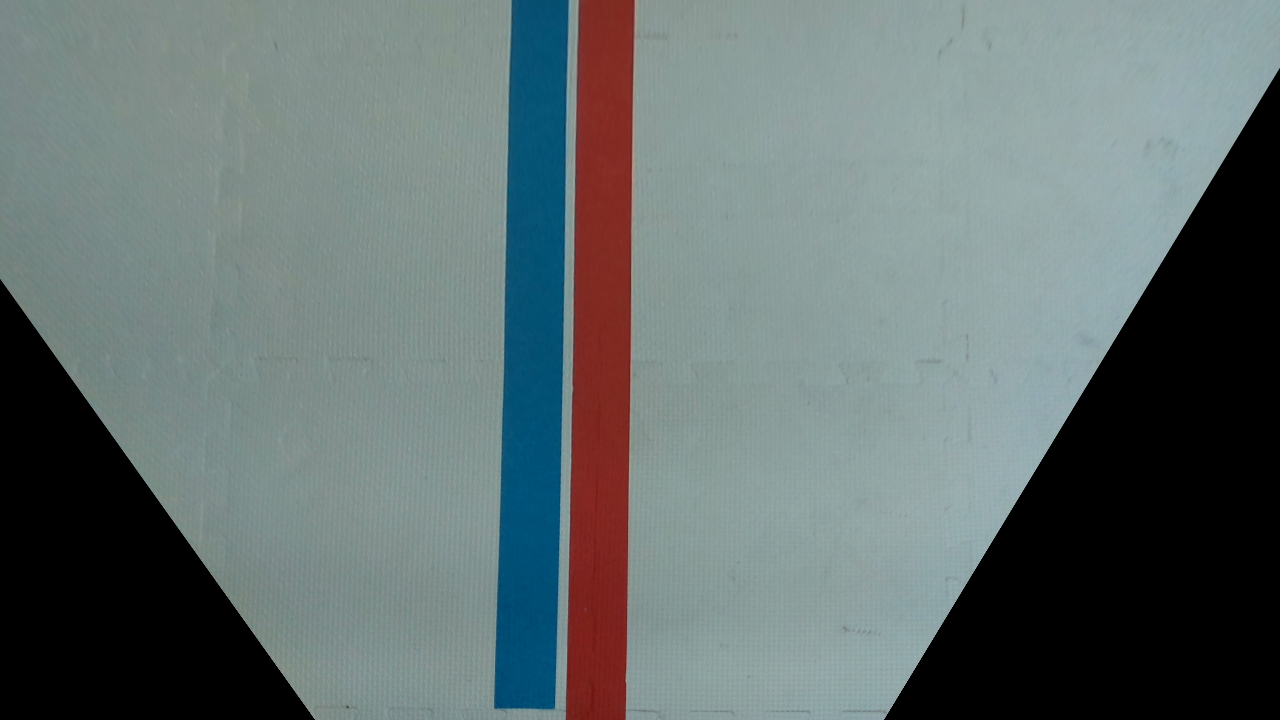
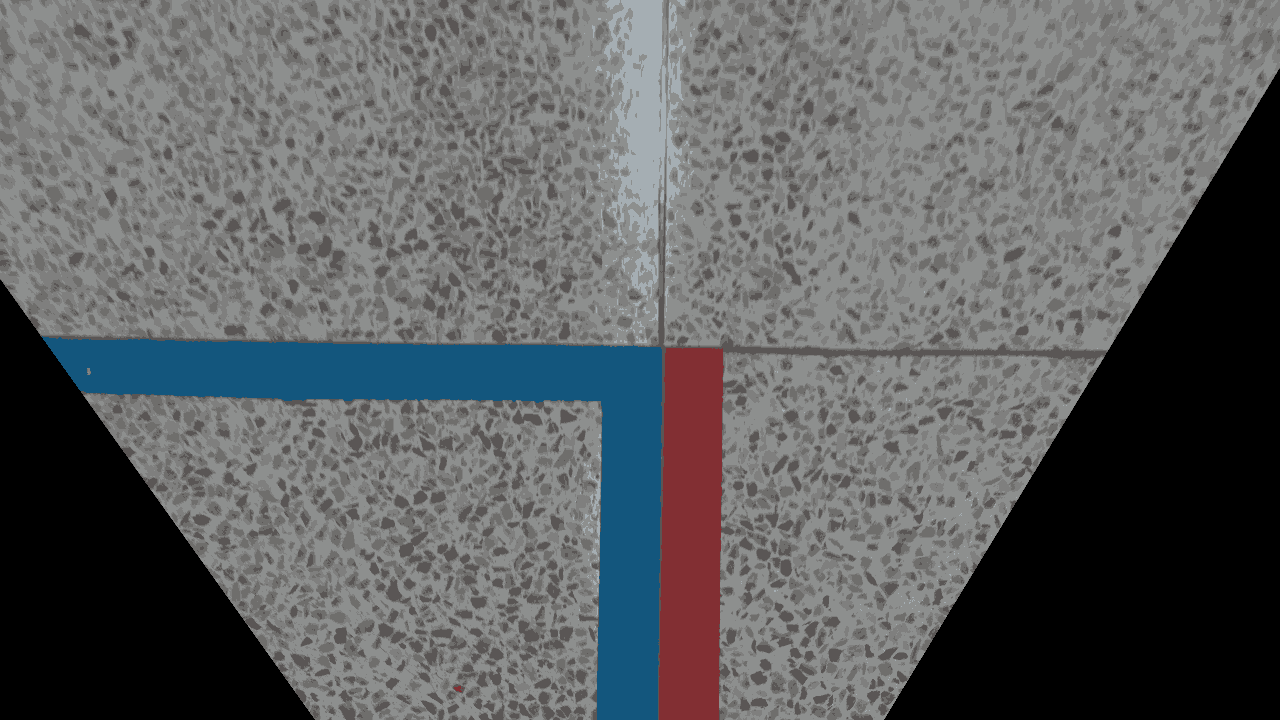
rgb2hsv function by hw

diff --git a/camera_jh/src/image_sample.cpp b/camera_jh/src/image_sample.cpp
@@ -2,12 +2,14 @@
 #include <cv_bridge/cv_bridge.h>
 #include <opencv2/highgui/highgui.hpp>
 #include <opencv2/core.hpp>
-#include <librealsense2/rs.hpp>
+// #include <librealsense2/rs.hpp>
 #include <iostream>
 #include <typeinfo>
 #include <vector>
 #include <math.h>
 
+// // array for hsv msg
+// std_msgs::Int16MultiArray dst_hsv;
 
 //using namespace cv;
 using namespace std;
@@ -21,7 +23,11 @@ int countt  = 0;
 #define min_f(a, b, c)  (fminf(a, fminf(b, c)))
 #define max_f(a, b, c)  (fmaxf(a, fmaxf(b, c)))
 
-int rgb2hsv(const unsigned int &src_r, const unsigned int &src_g, const unsigned int &src_b)
+#define Cluster_number 6 // [jh]
+
+int dst_hsv[3];
+
+void rgb2hsv(const unsigned int &src_r, const unsigned int &src_g, const unsigned int &src_b)
 {
     float r = src_r / 255.0f;
     float g = src_g / 255.0f;
@@ -61,11 +67,15 @@ int rgb2hsv(const unsigned int &src_r, const unsigned int &src_g, const unsigned
     int dst_h = (unsigned int)(h / 2);   
     int dst_s = (unsigned int)(s * 255); 
     int dst_v = (unsigned int)(v * 255); 
+    dst_hsv[0] = dst_h;
+    dst_hsv[1] = dst_s;
+    dst_hsv[2] = dst_v;
+    // dst_hsv=dst_h,dst_s,dst_v;
 
-    cout << "h:" << dst_h << "s:" <<  dst_s << "v:"<< dst_v << endl;
-
-    return dst_h, dst_s, dst_v;
-   
+    // cout << "h:" << dst_h << "s:" <<  dst_s << "v:"<< dst_v << endl;
+    
+    // return dst_hsv;
+    return;
 }
 
 
@@ -78,20 +88,21 @@ int main(int argc, char **argv)
   cout << "Major version : "  << CV_MAJOR_VERSION << endl;
 
 
-  rs2::pipeline pipe;
-  rs2::config cfg;
-  rs2::frameset frames;
-  rs2::frame color_frame;
+//   rs2::pipeline pipe;
+//   rs2::config cfg;
+//   rs2::frameset frames;
+//   rs2::frame color_frame;
+  
 
   int rgb2hsv(const unsigned int &src_r, const unsigned int &src_g, const unsigned int &src_b);
+  
+//   cfg.enable_stream(RS2_STREAM_COLOR, 1280,720, RS2_FORMAT_BGR8, 30);
+//   pipe.start(cfg);
 
-  cfg.enable_stream(RS2_STREAM_COLOR, 1280,720, RS2_FORMAT_BGR8, 30);
-  pipe.start(cfg);
-
-  for(int i=0; i < 30; i ++)
-  {
-    frames = pipe.wait_for_frames();
-  }
+//   for(int i=0; i < 30; i ++)
+//   {
+//     frames = pipe.wait_for_frames();
+//   }
 
   //cv::namedWindow("Display Imagee", cv::WINDOW_AUTOSIZE);
 
@@ -99,8 +110,8 @@ int main(int argc, char **argv)
 
   while(ros::ok())
   {
-    frames = pipe.wait_for_frames();
-    color_frame = frames.get_color_frame();
+    // frames = pipe.wait_for_frames();
+    // color_frame = frames.get_color_frame();
     cv::Mat dst;
     cv::Point2f src_p[4], dst_p[4];
     cout << "count : " << countt << endl;
@@ -142,18 +153,22 @@ int main(int argc, char **argv)
 
     //cv::warpPerspective(src, dst, perspective_mat, cv::Size(1280,720));
   // jaewook's code 
-    if(countt== 0 || countt ==150)
-  { 
-    cv::Mat src(cv::Size(1280,720), CV_8UC3, (void*)color_frame.get_data(), cv::Mat::AUTO_STEP);
     
+    // cv::Mat src(cv::Size(1280,720), CV_8UC3, (void*)color_frame.get_data(), cv::Mat::AUTO_STEP);
+    cv::Mat src = cv::imread("original.png");
     cv::warpPerspective(src, dst, perspective_mat, cv::Size(1280,720));
     cv::imshow("src", src);
     cv::imshow("dst", dst);
     
     //function test[k]
-    rgb2hsv(136,49,54);
-    //////////////////
+    // int dst_h = 0;
+    // int dst_s = 0;
+    // int dst_v = 0;
+    // dst_h,dst_s,dst_v= rgb2hsv(134,52,56);
+    // rgb2hsv(134,52,56);
 
+    //////////////////
+    
     // color detect and binarization[W]
     ///////////////////////////////////////////////////
     cv::Mat hsv,red_mask, red_image, gray, blur;
@@ -204,8 +219,8 @@ int main(int argc, char **argv)
 
     // // 2022.07.06 kmeans second trial[W]
     cv::Mat res, points, labels, centers;
-    int width, height, x, y, n, nPoints, cIndex, iTemp;
-    const int k = 8;
+    int width, height, x, y, n, nPoints, cIndex, iTemp,i;
+    const int k = Cluster_number;
      
     // 이미지 정보 파악
     width = dst.cols, height = dst.rows;
@@ -226,6 +241,8 @@ int main(int argc, char **argv)
             points.at<cv::Vec3f>(n)[2] = dst.at<cv::Vec3b>(y, x)[2];
         } 
     }
+
+
     // dst.convertTo (dst, CV_32FC3);
     // k-means clustering
     kmeans(points, k, labels, cv::TermCriteria(CV_TERMCRIT_EPS+CV_TERMCRIT_ITER, 10, 1.0), 
@@ -250,10 +267,22 @@ int main(int argc, char **argv)
             res.at<cv::Vec3b>(y, x)[2] = (uchar)iTemp;
         } 
     }
+
+  for (i=0; i<Cluster_number; i++)
+  {
+    // rgb2hsv(int(centers.at<cv::Vec3f>(i)[0]),int(centers.at<cv::Vec3f>(i)[1]),int(centers.at<cv::Vec3f>(i)[2]));
+    rgb2hsv(int(centers.at<cv::Vec3f>(i)[0]),int(centers.at<cv::Vec3f>(i)[1]),int(centers.at<cv::Vec3f>(i)[2]));
+    // cout << "hsv : " << centers.at<cv::Vec3f>(i) << endl;
+    // cout << "h:" << dst_hsv[0] << " s:" <<  dst_hsv[1] << " v:"<< dst_hsv[2] << endl;
+    cout << "hsv : " << dst_hsv[0]<<","<<dst_hsv[1]<<","<<dst_hsv[2]<< endl;
+  }
+  dst_hsv[0]=0;
+  dst_hsv[1]=0;
+  dst_hsv[2]=0;
    // after kmeans image generate, we need to arrange hsv space[W]
 
    cv::imshow("Result", res); 
-  //  cv::imwrite("original.png", src);
+   cv::imwrite("kmeans.png", res);
 
    //convert HSV
    
@@ -263,7 +292,7 @@ int main(int argc, char **argv)
    // centers hsv convert [JH] 
    
 
-   }
+   
     // image renewal preiod [W]
     countt++;
     
